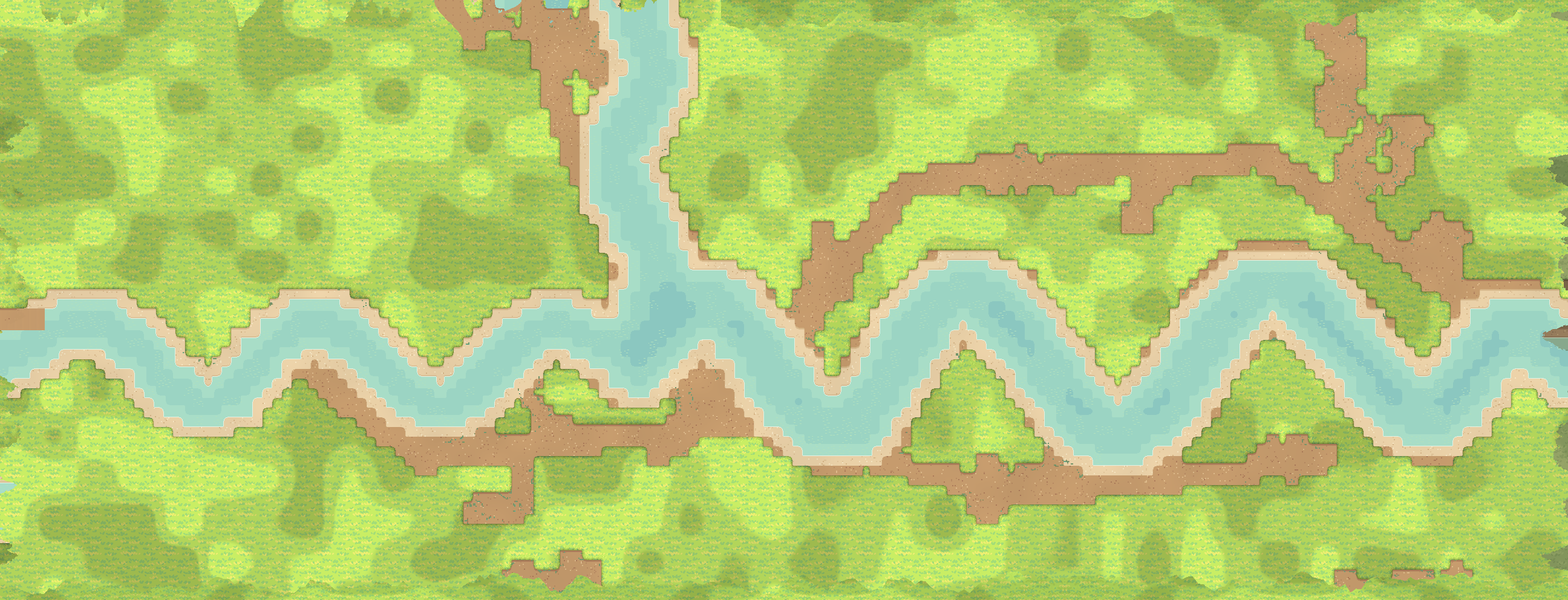
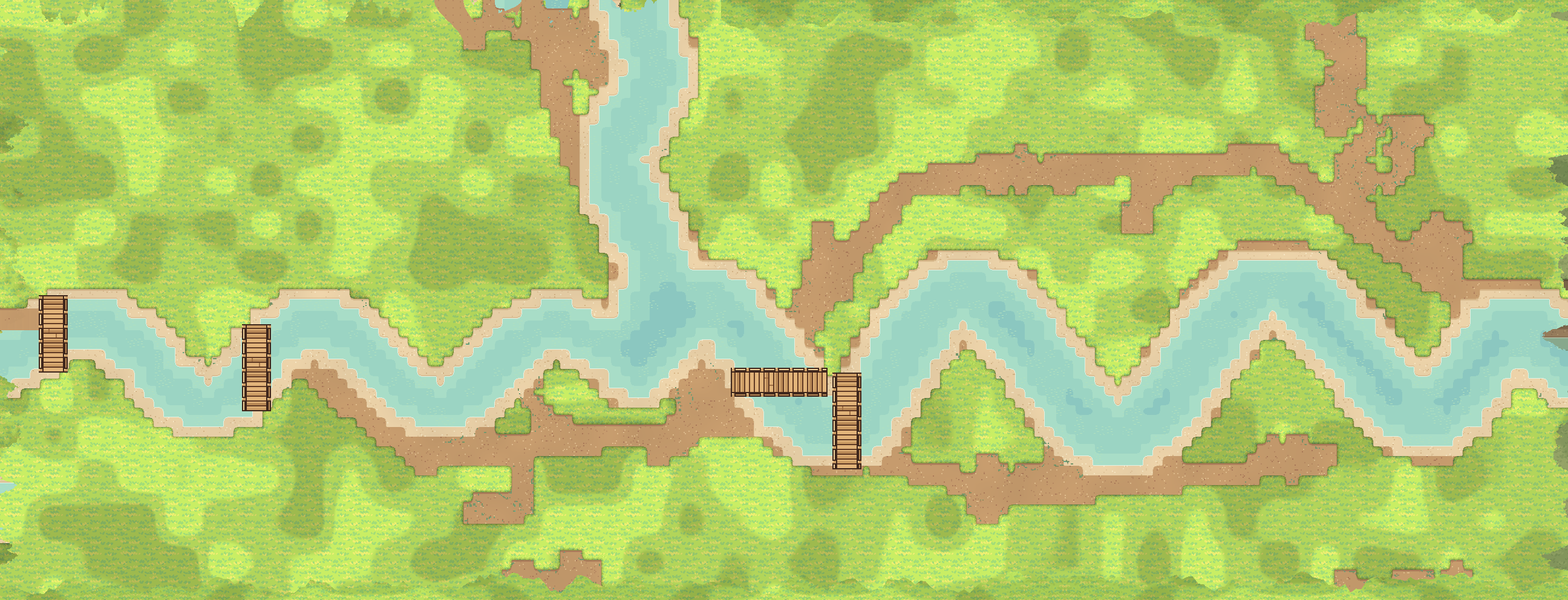
Jembatan kayu di 8 penyeberangan sungai/danau (bisa diseberangi)
Claude-Session: https://claude.ai/code/session_013SaXTJuwinpA9vu4txrWbT

Changed region(s): [[0.4688, 0.5938, 0.5625, 0.7812], [0.0, 0.5, 0.0625, 0.625], [0.1562, 0.5312, 0.1875, 0.6875]]

diff --git a/tools/seam_ground.py b/tools/seam_ground.py
@@ -219,6 +219,31 @@ def shared_spans(R):
     return out
 
 
+BRIDGES = 'tools/bridges/bridges.json'   # jembatan kayu (posisi & gambar dari versi web lama: bridgeFit/bridgeArt)
+BRIDGES_GD = 'godot/core/bridges_data.gd'
+
+
+def paste_bridges(IMG):
+    import json
+    B = json.load(open(BRIDGES))
+    lines = ['class_name BridgesData', 'extends RefCounted', '## DIBUAT OTOMATIS oleh tools/seam_ground.py — jangan disunting tangan.',
+             '## Jembatan kayu per wilayah (koordinat lokal, piksel). BenuaWorld menghapus petak air (tabrakan) di bawahnya.',
+             '', 'const LIST: Dictionary = {']
+    for k, L in B.items():
+        if k not in IMG:
+            continue
+        rects = []
+        for o in L:
+            art = Image.open(o['img']).convert('RGBA')
+            base = Image.fromarray(IMG[k])
+            base.alpha_composite(art, (o['x'], o['y']))
+            IMG[k] = np.array(base)
+            rects.append('Rect2i(%d, %d, %d, %d)' % (o['x'], o['y'], o['w'], o['h']))
+        lines.append('\t&"%s": [%s],' % (k, ', '.join(rects)))
+    lines.append('}')
+    open(BRIDGES_GD, 'w').write('\n'.join(lines) + '\n')
+
+
 def main():
     R = regions()
     IMG = {}
@@ -236,6 +261,7 @@ def main():
         put(IMG[b], R[b], side, g0, g1, depth, True, sb)
         print('sambung', a, b, side, g1 - g0)
     outer_fade(IMG, R, shared_spans(R))
+    paste_bridges(IMG)
     for k, a in IMG.items():
         Image.fromarray(a).save(OUT % k)
 

diff --git a/AGENTS.md b/AGENTS.md
@@ -37,3 +37,4 @@ Proyek kini berjalan sepenuhnya di **Godot 4.7.2** (`godot/project.godot`, rende
 - **24 Peta & Interior:** Desa Lumina, Arena Latihan, Hutan Lumina, Hutan Dalam, Jalur Sungai Senja, Padang Angin, Gua Batu, Rawa Senja, Puncak Beku, Danau Cermin, Jalan Raya Lama, 5 distrik Kota Lumina (`kgate`, `kpasar`, `kpermukiman`, `kakademi`, `kbawah`), serta 8 interior/gelanggang (`home`, `inn`, `elderhome`, `linahome`, `temple`, `kinn`, `arsip`, `arena`).
 - **Gameplay & Konten:** 24 musuh + bos 2 fase, 6 senjata, 4 zirah, 12 item, 38 dialog, 5 jurus sihir + guru, 9 misi & 6 pencapaian, 9 resep kerajinan/tempa, spot memancing, toko, peti, satwa liar, siang-malam & cahaya gua, BGM/SFX asli, save v4 (migrasi v1–v3), serta `export_presets.cfg` untuk Android & macOS.
 - **Tanah benua menyambung (2026-11-27):** semua wilayah luar memakai tanah gaya Sprout KOTAK-KOTAK yang sama (kota = paving batu); `python3 tools/seam_ground.py` (sumber `tools/ground_src/`) menyamakan ukuran gambar tanah dengan kotak `WorldLayout`, menyambung jalan yang putus di perbatasan, dan mengganti garis batas lurus dengan batas bergelombang (salju/rawa memudar). Cek visual semua perbatasan: `xvfb-run -s "-screen 0 1280x720x24" Godot --path godot --rendering-driver opengl3 --script res://tests/_probe_edges.gd` → `/tmp/gt/e_*.png`.
+- **Jembatan (2026-11-27):** 8 jembatan kayu (Danau 1, Hutan 1, Sungai 4, Rawa 1, Salju 1) dari posisi & gambar versi web lama (`tools/bridges/`), ditempel ke gambar tanah oleh `seam_ground.py`, yang juga menulis `godot/core/bridges_data.gd`; `BenuaWorld` menghapus petak air (tabrakan) di bawahnya. Petak air TileMap tak terlihat (air = gambar tanah). Uji: `tests/_probe_bridges.gd`.
